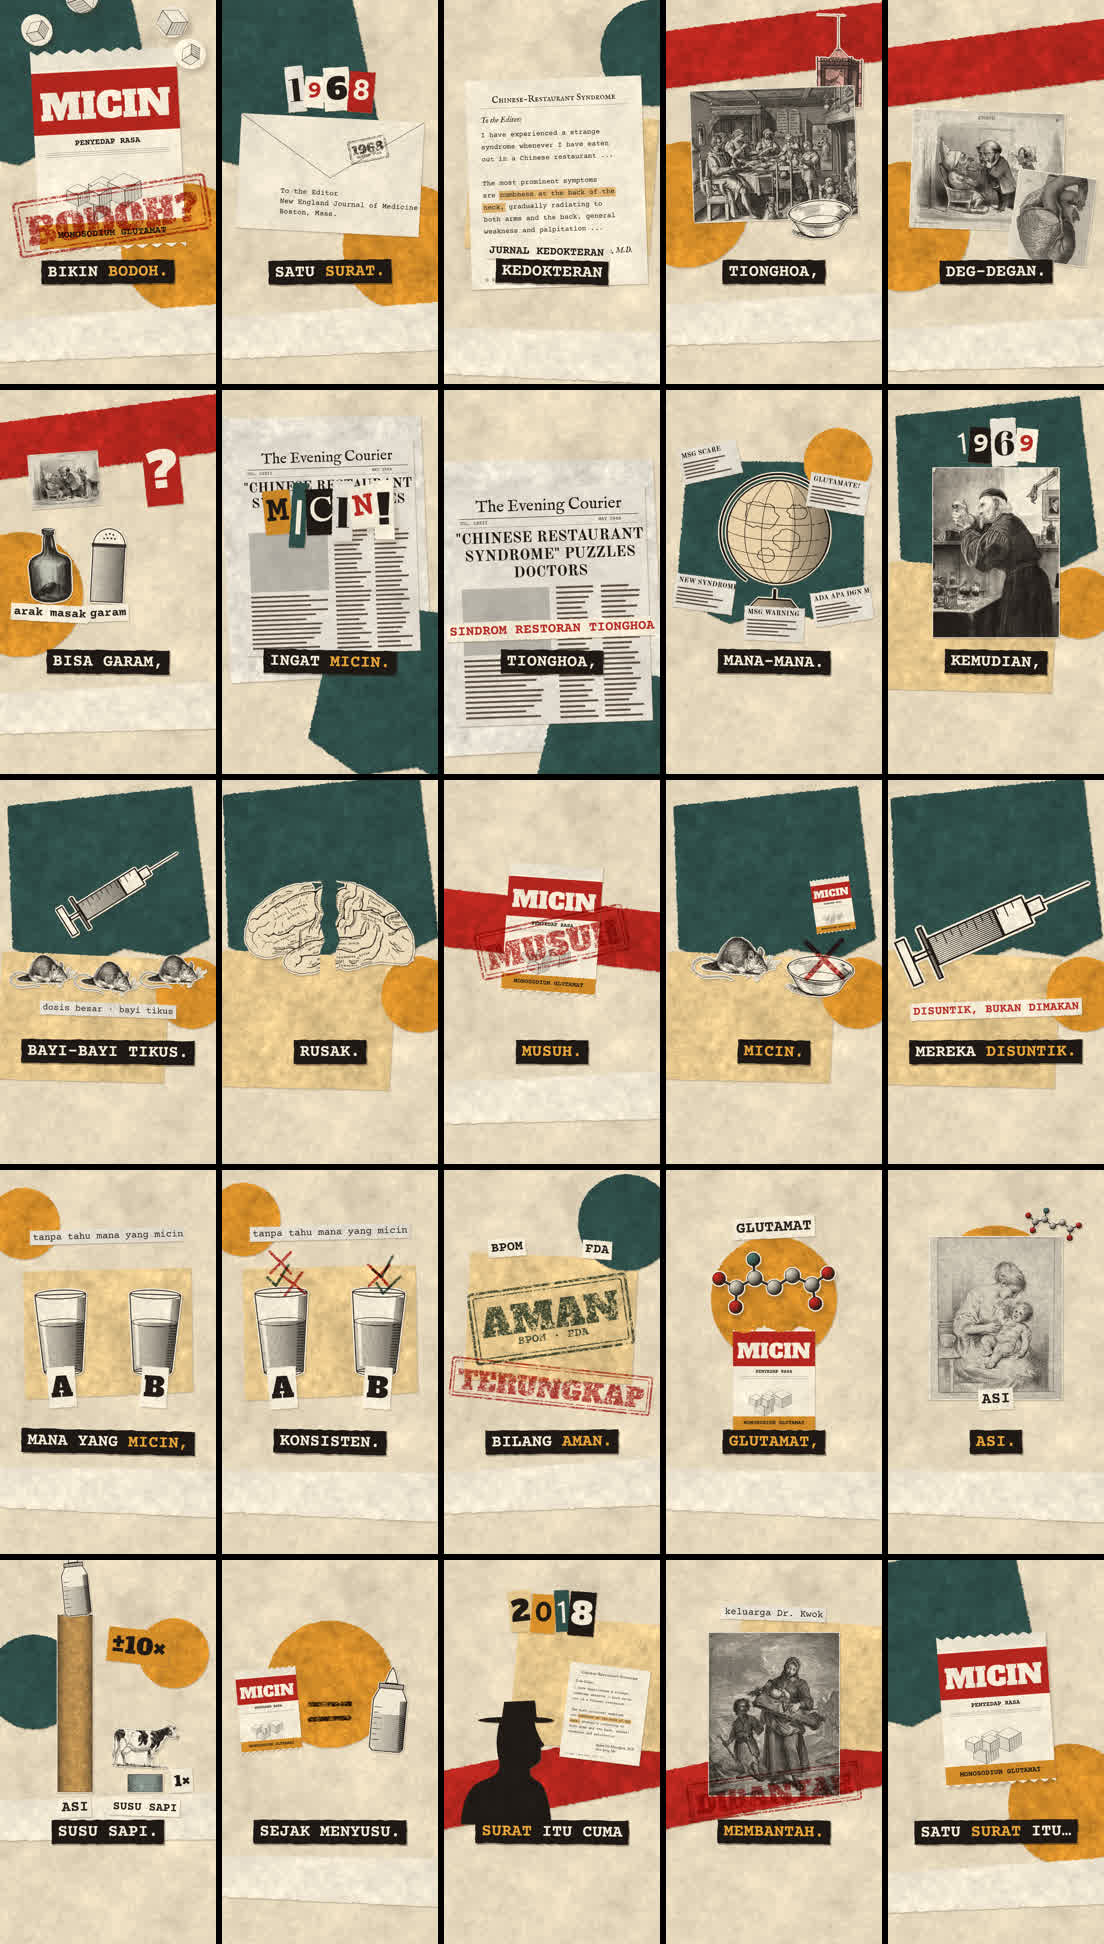
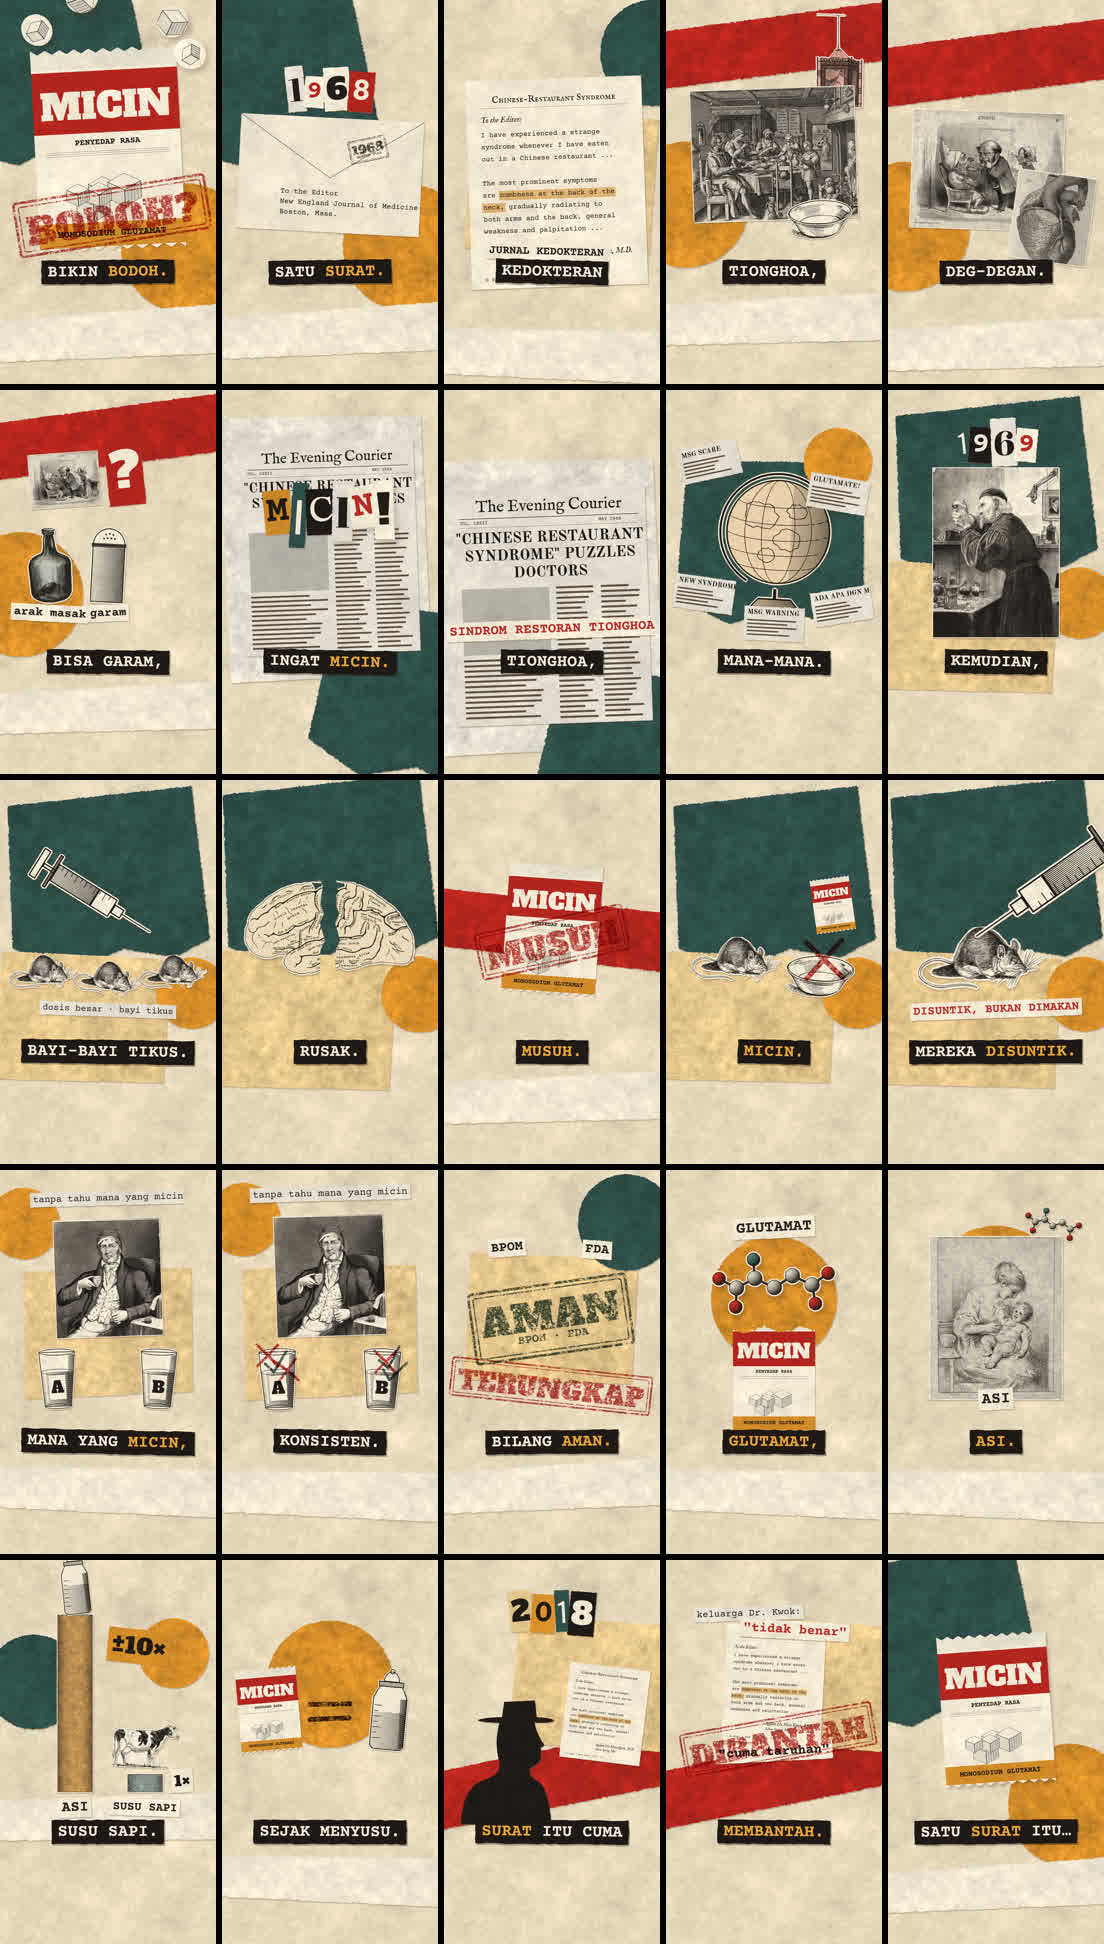
Micin collage storyboard v2: human test subject, syringe aimed at mice, injection close-up, rounded teat, denial stamped on the claim
Claude-Session: https://claude.ai/code/session_01BfnoLVEnVdqfdKeT25SFbH

diff --git a/stories/micin/kolase/film.js b/stories/micin/kolase/film.js
@@ -100,7 +100,7 @@ const SHOTS = [
   (u, T, d) => {
     stage(u, d, { z0: 1, z1: 1.04 }); bg('resto');
     putK('patient', [[0, 330, 470, -4, 0, 1]], u, 12, { s: 0.48 });
-    ransomRow('rq', u, 0.5, 800, 430, 0.1, 1.3);
+    ransomRow('rq', u, 0.5, 620, 430, 0.1, 1.3);
     const items = [['bottle', 's_arak', 260, at(5, 'arak')], ['salt', 's_garam', 540, at(5, 'garam')], ['sachet', 's_micin', 820, at(5, 'micin')]];
     items.forEach(([n, sl, x, t0], i) => {
       if (has(n)) putK(n, slap(t0, x, 880, [-4, 3, 5][i]), u, 20 + i, { s: n === 'sachet' ? 0.42 : 1 });
@@ -137,7 +137,7 @@ const SHOTS = [
   // 11 · menyuntikkan micin ke bayi-bayi tikus.
   (u, T, d) => {
     stage(u, d, { z1: 1.05 }); bg('lab');
-    if (has('syringe')) putK('syringe', slide(0, 0.35, 600, 560, -32, 600, -500, 0, 1), u, 61);
+    putK('syringe', slide(0, 0.35, 470, 600, 32, -600, -500, 0, 1), u, 61);
     [230, 540, 850].forEach((x, i) => { putK('mouse', drop(0.45 + i * 0.12, 0.62 + i * 0.12, x, 960 + (i % 2) * 30, (i % 2 ? 6 : -4), 700), u, 70 + i, { s: 0.95 }); });
     putK('s_dosis', slap(1.2, 540, 1140, 2), u, 75);
   },
@@ -173,22 +173,24 @@ const SHOTS = [
   // 15 · Mereka disuntik.
   (u, T, d) => {
     stage(u, d, { z0: 1.02, z1: 1.1, shake: [[0.05, 12]] }); bg('lab');
-    if (has('syringe')) putK('syringe', slap(0.05, 540, 740, -24, -30, -60), u, 84, { s: 1.45 });
+    putK('mouse', [[0, 470, 900, -4, 0, 1]], u, 86, { s: 1.7 });
+    putK('syringe', [[0, 900, 380, 145, 2, 1, null, 0, 1.3], [0.12, 790, 560, 145, 0.3, 1, 'in', 0, 1.3]], u, 84);
     putK('s_disuntik', slap(at(14, 'disuntik') + 0.1, 540, 1130, -2), u, 85);
   },
   // 16 · Waktu manusia dites tanpa tahu mana yang micin,
   (u, T, d) => {
     stage(u, d, { z1: 1.05 }); bg('test');
-    if (has('glass')) { putK('glass', slide(0, 0.3, 320, 820, -2, -700, 0, 0, 0.8), u, 86); putK('glass', slide(0.12, 0.42, 760, 820, 2, 700, 0, 0, -0.8), u, 87); }
-    putK('s_A', slap(0.55, 320, 1080, -4), u, 88); putK('s_B', slap(0.7, 760, 1080, 4), u, 89);
-    typed('s_tanpatahu', u, at(15, 'tanpa') - 0.05, 28, 540, 360, -1.5);
+    putK('subject', slide(0, 0.3, 540, 560, -2, 0, -900, 0, 0.7), u, 85, { s: 0.9 });
+    putK('glass', slide(0.2, 0.45, 300, 1040, -2, -700, 0, 0, 0.8), u, 86, { s: 0.7 }); putK('glass', slide(0.3, 0.55, 780, 1040, 2, 700, 0, 0, -0.8), u, 87, { s: 0.7 });
+    putK('s_A', slap(0.6, 300, 1080, -4), u, 88, { s: 0.6 }); putK('s_B', slap(0.75, 780, 1080, 4), u, 89, { s: 0.6 });
+    typed('s_tanpatahu', u, at(15, 'tanpa') - 0.05, 28, 540, 180, -1.5);
   },
   // 17 · hasilnya nggak konsisten.
   (u, T, d) => {
     stage(u, d, { z0: 1.05, z1: 1.08 }); bg('test');
-    if (has('glass')) { put('glass', 320, 820, -2); put('glass', 760, 820, 2); }
-    put('s_A', 320, 1080, -4); put('s_B', 760, 1080, 4); put('s_tanpatahu', 540, 360, -1.5);
-    [['m_tick_s', 300, 560], ['m_cross_s', 740, 560], ['m_cross_s', 360, 600], ['m_tick_s', 780, 600], ['m_cross_s', 330, 500], ['m_tick_s', 760, 520]]
+    put('subject', 540, 560, -2, 0, 1, 0.9); put('glass', 300, 1040, -2, 0, 1, 0.7); put('glass', 780, 1040, 2, 0, 1, 0.7);
+    put('s_A', 300, 1080, -4, 0, 1, 0.6); put('s_B', 780, 1080, 4, 0, 1, 0.6); put('s_tanpatahu', 540, 180, -1.5);
+    [['m_tick_s', 290, 960], ['m_cross_s', 770, 960], ['m_cross_s', 330, 1000], ['m_tick_s', 810, 1000], ['m_cross_s', 270, 930], ['m_tick_s', 790, 940]]
       .forEach(([n, x, y], i) => stampAt(n, u, 0.05 + i * 0.13, x + (hash(i, 9) - .5) * 60, y, (hash(i, 4) - .5) * 30, 1));
   },
   // 18 · BPOM dan FDA bilang aman.  -> TERUNGKAP
@@ -248,9 +250,9 @@ const SHOTS = [
   (u, T, d) => {
     const tb = at(23, 'membantah');
     stage(u, d, { z1: 1.05, shake: [[tb, 10]] }); bg('bet');
-    if (has('family')) putK('family', slide(0, 0.3, 540, 780, 0, 0, -900, 0, 0.7), u, 109);
-    putK('s_keluarga', slap(0.35, 540, 300, 2), u, 110);
-    stampAt('st_dibantah', u, tb, 540, 1150, -8, 1.2);
+    put('letter', 540, 640, 3, 0, 1, 0.62); put('s_taruhan', 540, 960, -3);
+    putK('s_keluarga', slap(0.15, 420, 300, -2), u, 110); putK('s_tidak', slap(0.45, 640, 380, 3), u, 111);
+    stampAt('st_dibantah', u, tb, 560, 900, -10, 1.35);
   },
   // 25 · Tapi gara-gara satu surat itu...  -> back to the sachet of frame 0 (loop)
   (u, T, d) => {

diff --git a/stories/micin/kolase/bake.py b/stories/micin/kolase/bake.py
@@ -183,7 +183,7 @@ def slips():
          ('s_disuntik', 'DISUNTIK, BUKAN DIMAKAN', F_CPB, 38, CARD, RED), ('s_dosis', 'dosis besar · bayi tikus', F_CP, 30, NEWS, INK),
          ('s_bpom', 'BPOM', F_CPB, 44, CARD, INK), ('s_fda', 'FDA', F_CPB, 44, CARD, INK),
          ('s_glutamat', 'GLUTAMAT', F_CPB, 52, CARD, INK), ('s_asi', 'ASI', F_CPB, 50, CARD, INK), ('s_sapi', 'SUSU SAPI', F_CPB, 40, CARD, INK),
-         ('s_taruhan', '"cuma taruhan"', F_CPB, 44, CARD, INK), ('s_keluarga', 'keluarga Dr. Kwok', F_CP, 32, NEWS, INK),
+         ('s_taruhan', '"cuma taruhan"', F_CPB, 44, CARD, INK), ('s_keluarga', 'keluarga Dr. Kwok:', F_CP, 32, NEWS, INK), ('s_tidak', '"tidak benar"', F_CPB, 44, CARD, RED),
          ('s_tanpatahu', 'tanpa tahu mana yang micin', F_CP, 32, NEWS, INK), ('s_A', 'A', F_SLAB, 90, CARD, INK), ('s_B', 'B', F_SLAB, 90, CARD, INK)]
     for i, (n, tx, f, s, pa, ik) in enumerate(T):
         bk.strip(n, tx, f, s * 1.45, pa, ik, 400 + i, mono=f.startswith('Courier'))

diff --git a/stories/micin/kolase/draw_engr.py b/stories/micin/kolase/draw_engr.py
@@ -66,7 +66,8 @@ def babybottle():
     d.line(pts + [pts[0]], fill=255, width=L, joint='curve')
     d.rectangle([450, 270, 750, 335], outline=255, width=L)                              # collar
     for i in range(6): d.line([455, 280 + i * 10, 745, 280 + i * 10], fill=255, width=3)
-    d.polygon([(520, 270), (680, 270), (640, 140), (600, 70), (560, 140)], outline=255, width=L)   # teat
+    d.chord([505, 150, 695, 400], 180, 360, outline=255, width=L)                       # teat: rubber dome
+    d.ellipse([570, 120, 630, 180], outline=255, width=L)                                 # nipple tip
     for i in range(7):
         y = 560 + i * 65; d.line([420, y, 470 + (40 if i % 2 == 0 else 0), y], fill=255, width=6)
     milk = poly_mask([(404, 640), (796, 640), (796, 1040), (760, 1076), (440, 1076), (404, 1040)])
